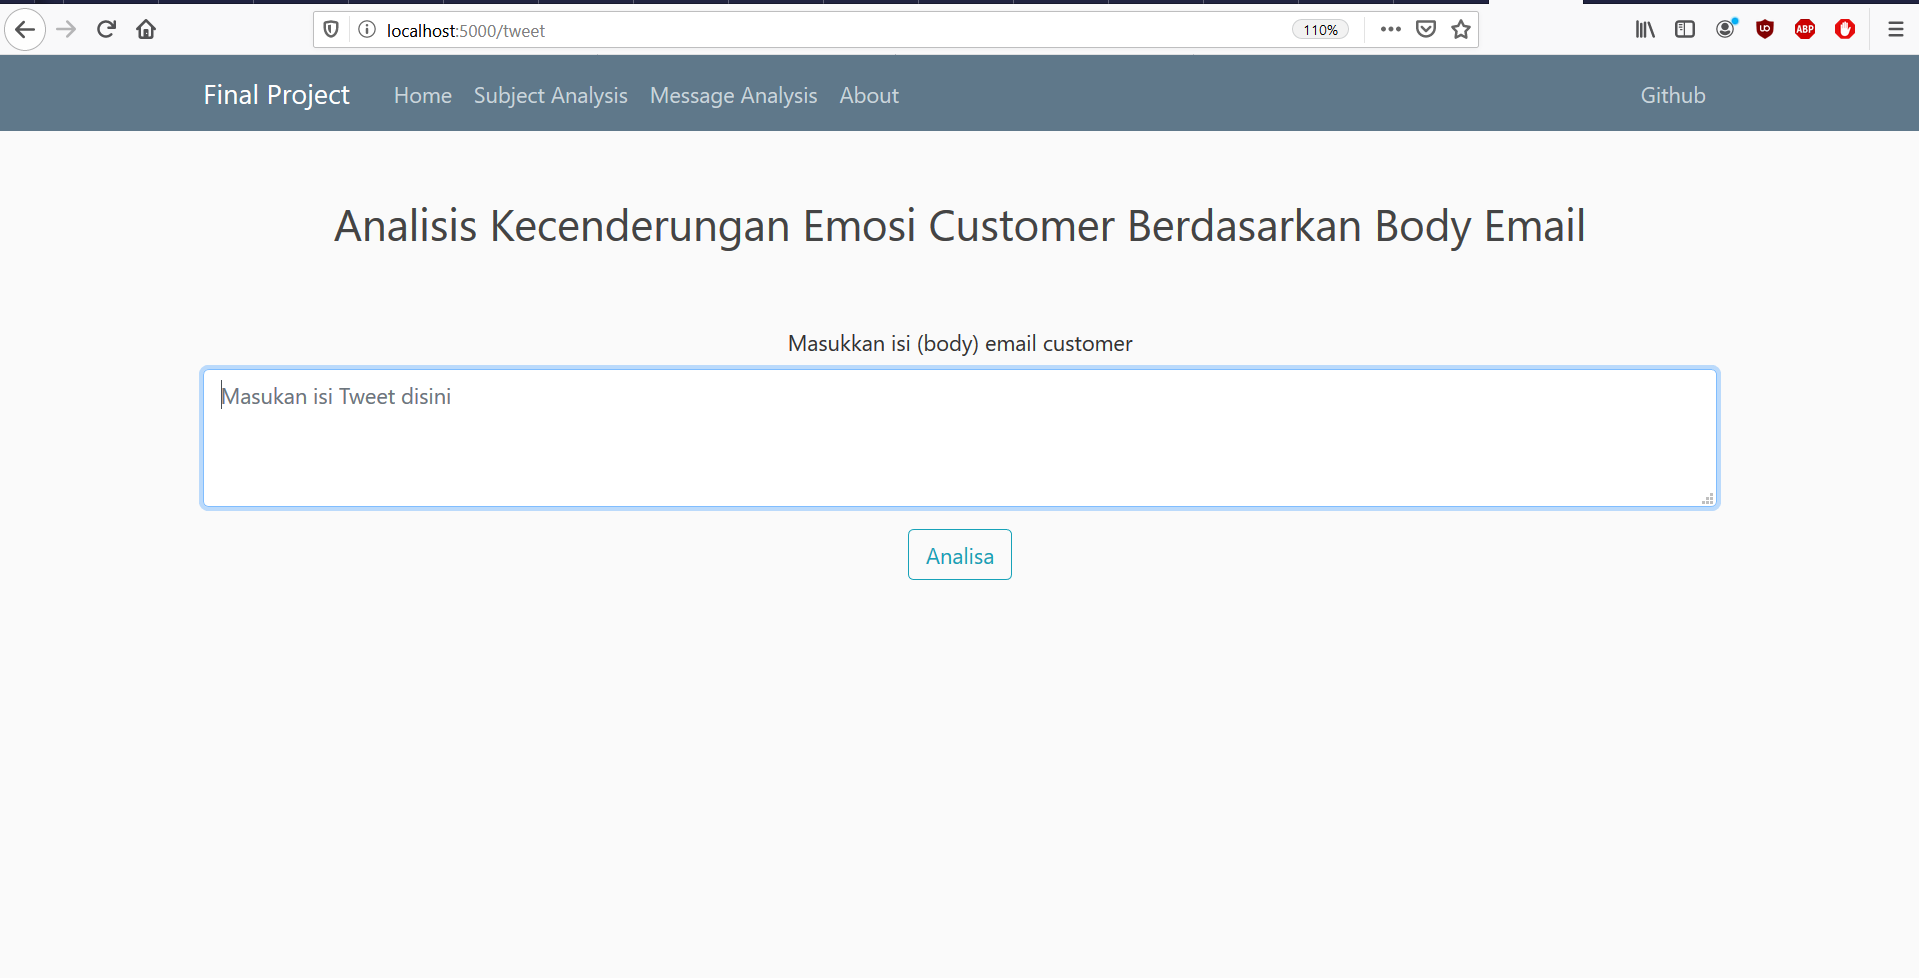
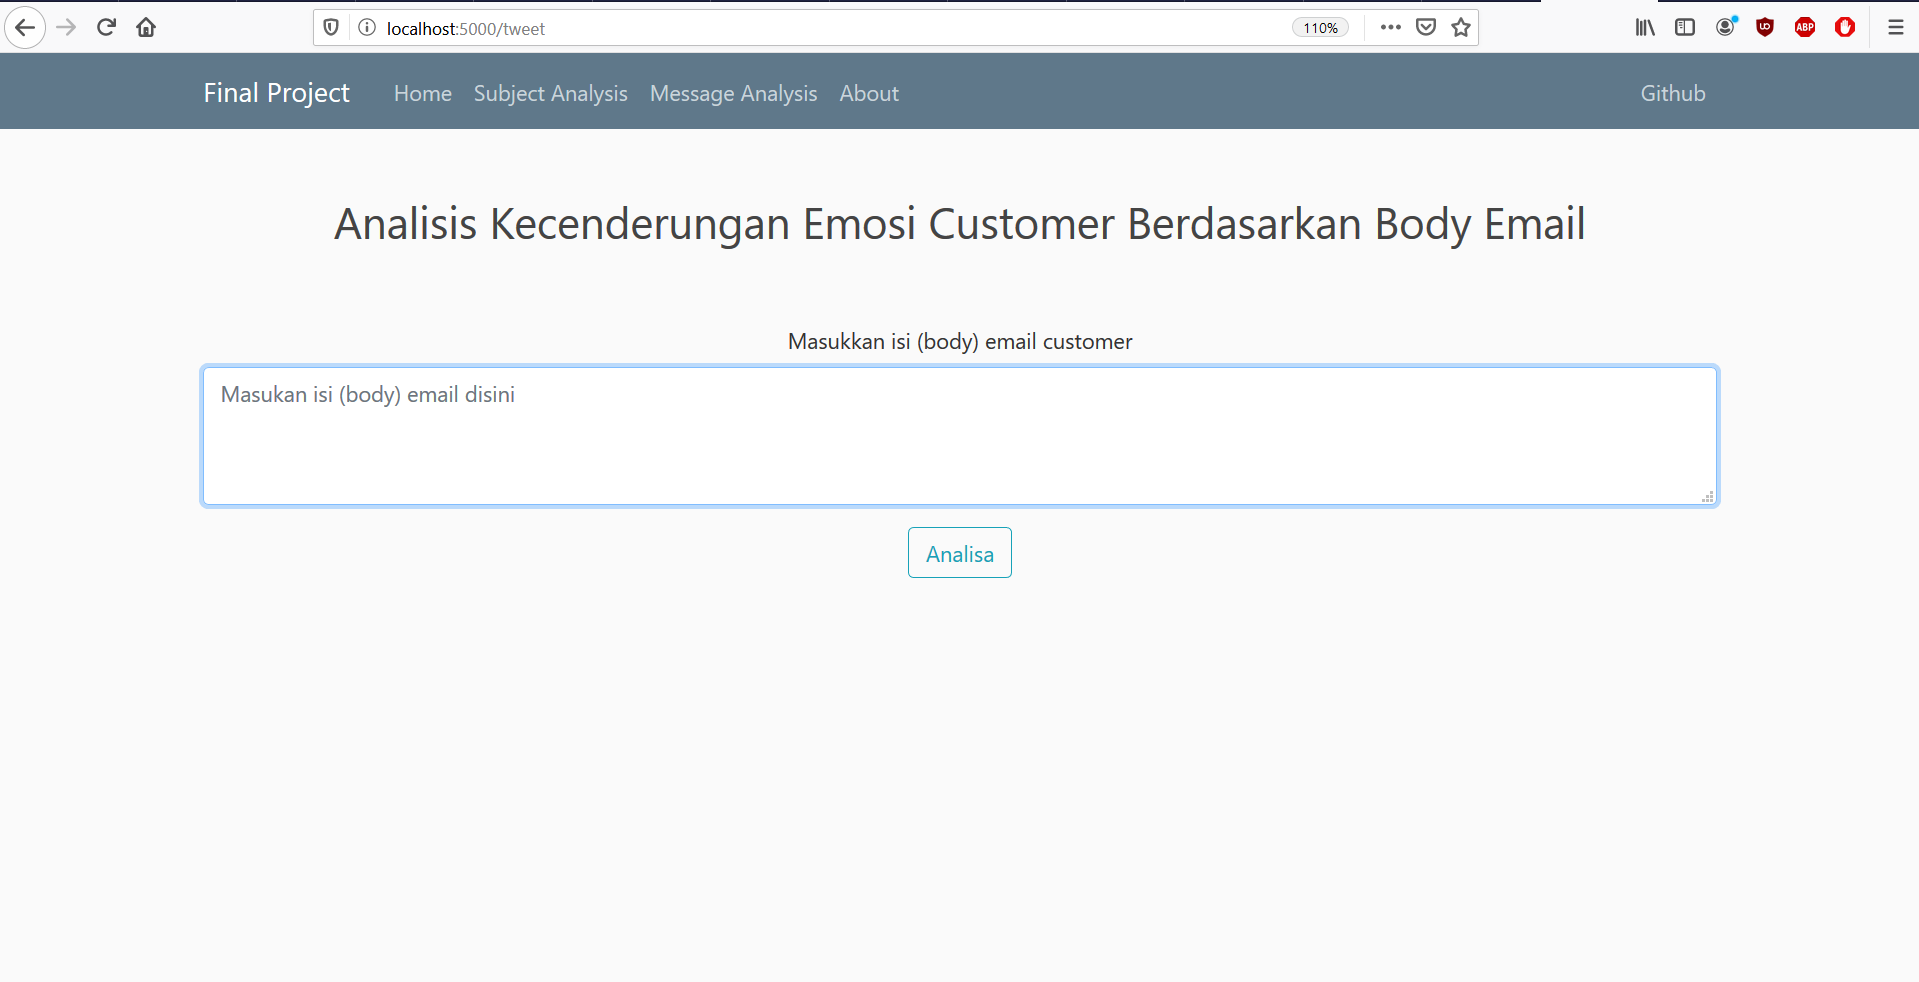
Final Project

diff --git a/templates/tweet.html b/templates/tweet.html
@@ -12,7 +12,7 @@
                               <div class="col-md-12">
                               <div class="form-group">
                                 <label for="tweetform">Masukkan isi (body) email customer</label>
-                                <textarea class="form-control textarea" rows="3" maxlength="500" name="tweet" id="tweetform" autofocus="" placeholder="Masukan isi Tweet disini"></textarea>
+                                <textarea class="form-control textarea" rows="3" maxlength="500" name="tweet" id="tweetform" autofocus="" placeholder="Masukan isi (body) email disini"></textarea>
                               </div>
                           </div>
                         </div>
